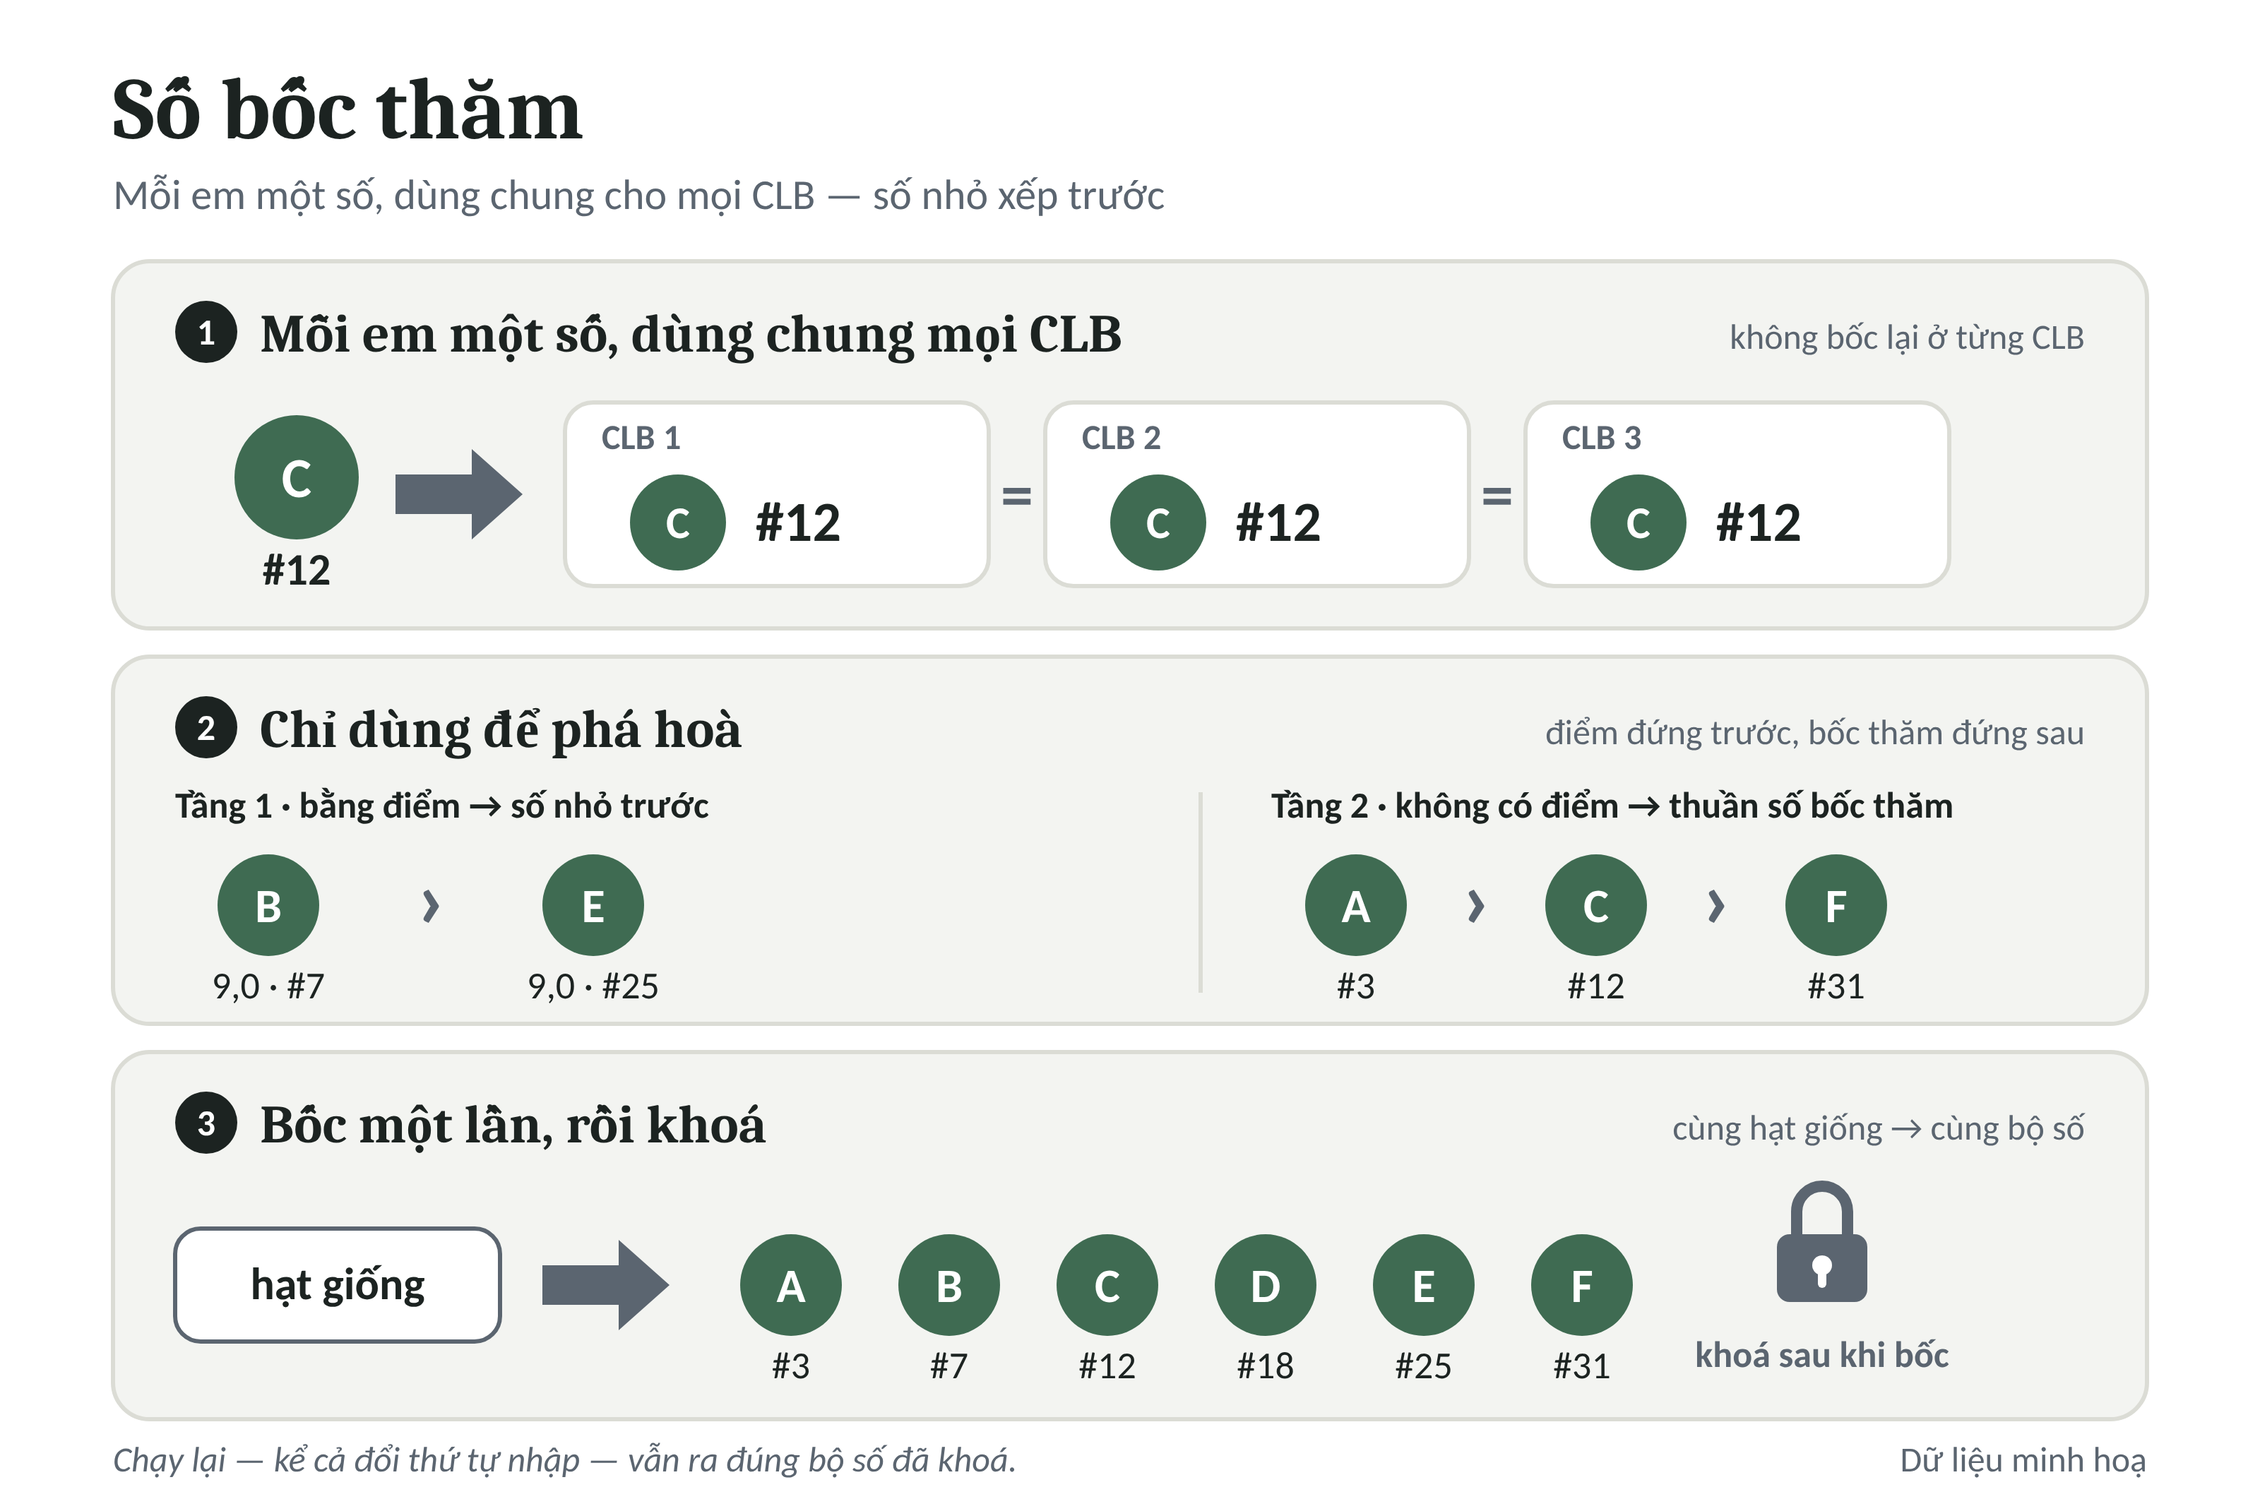
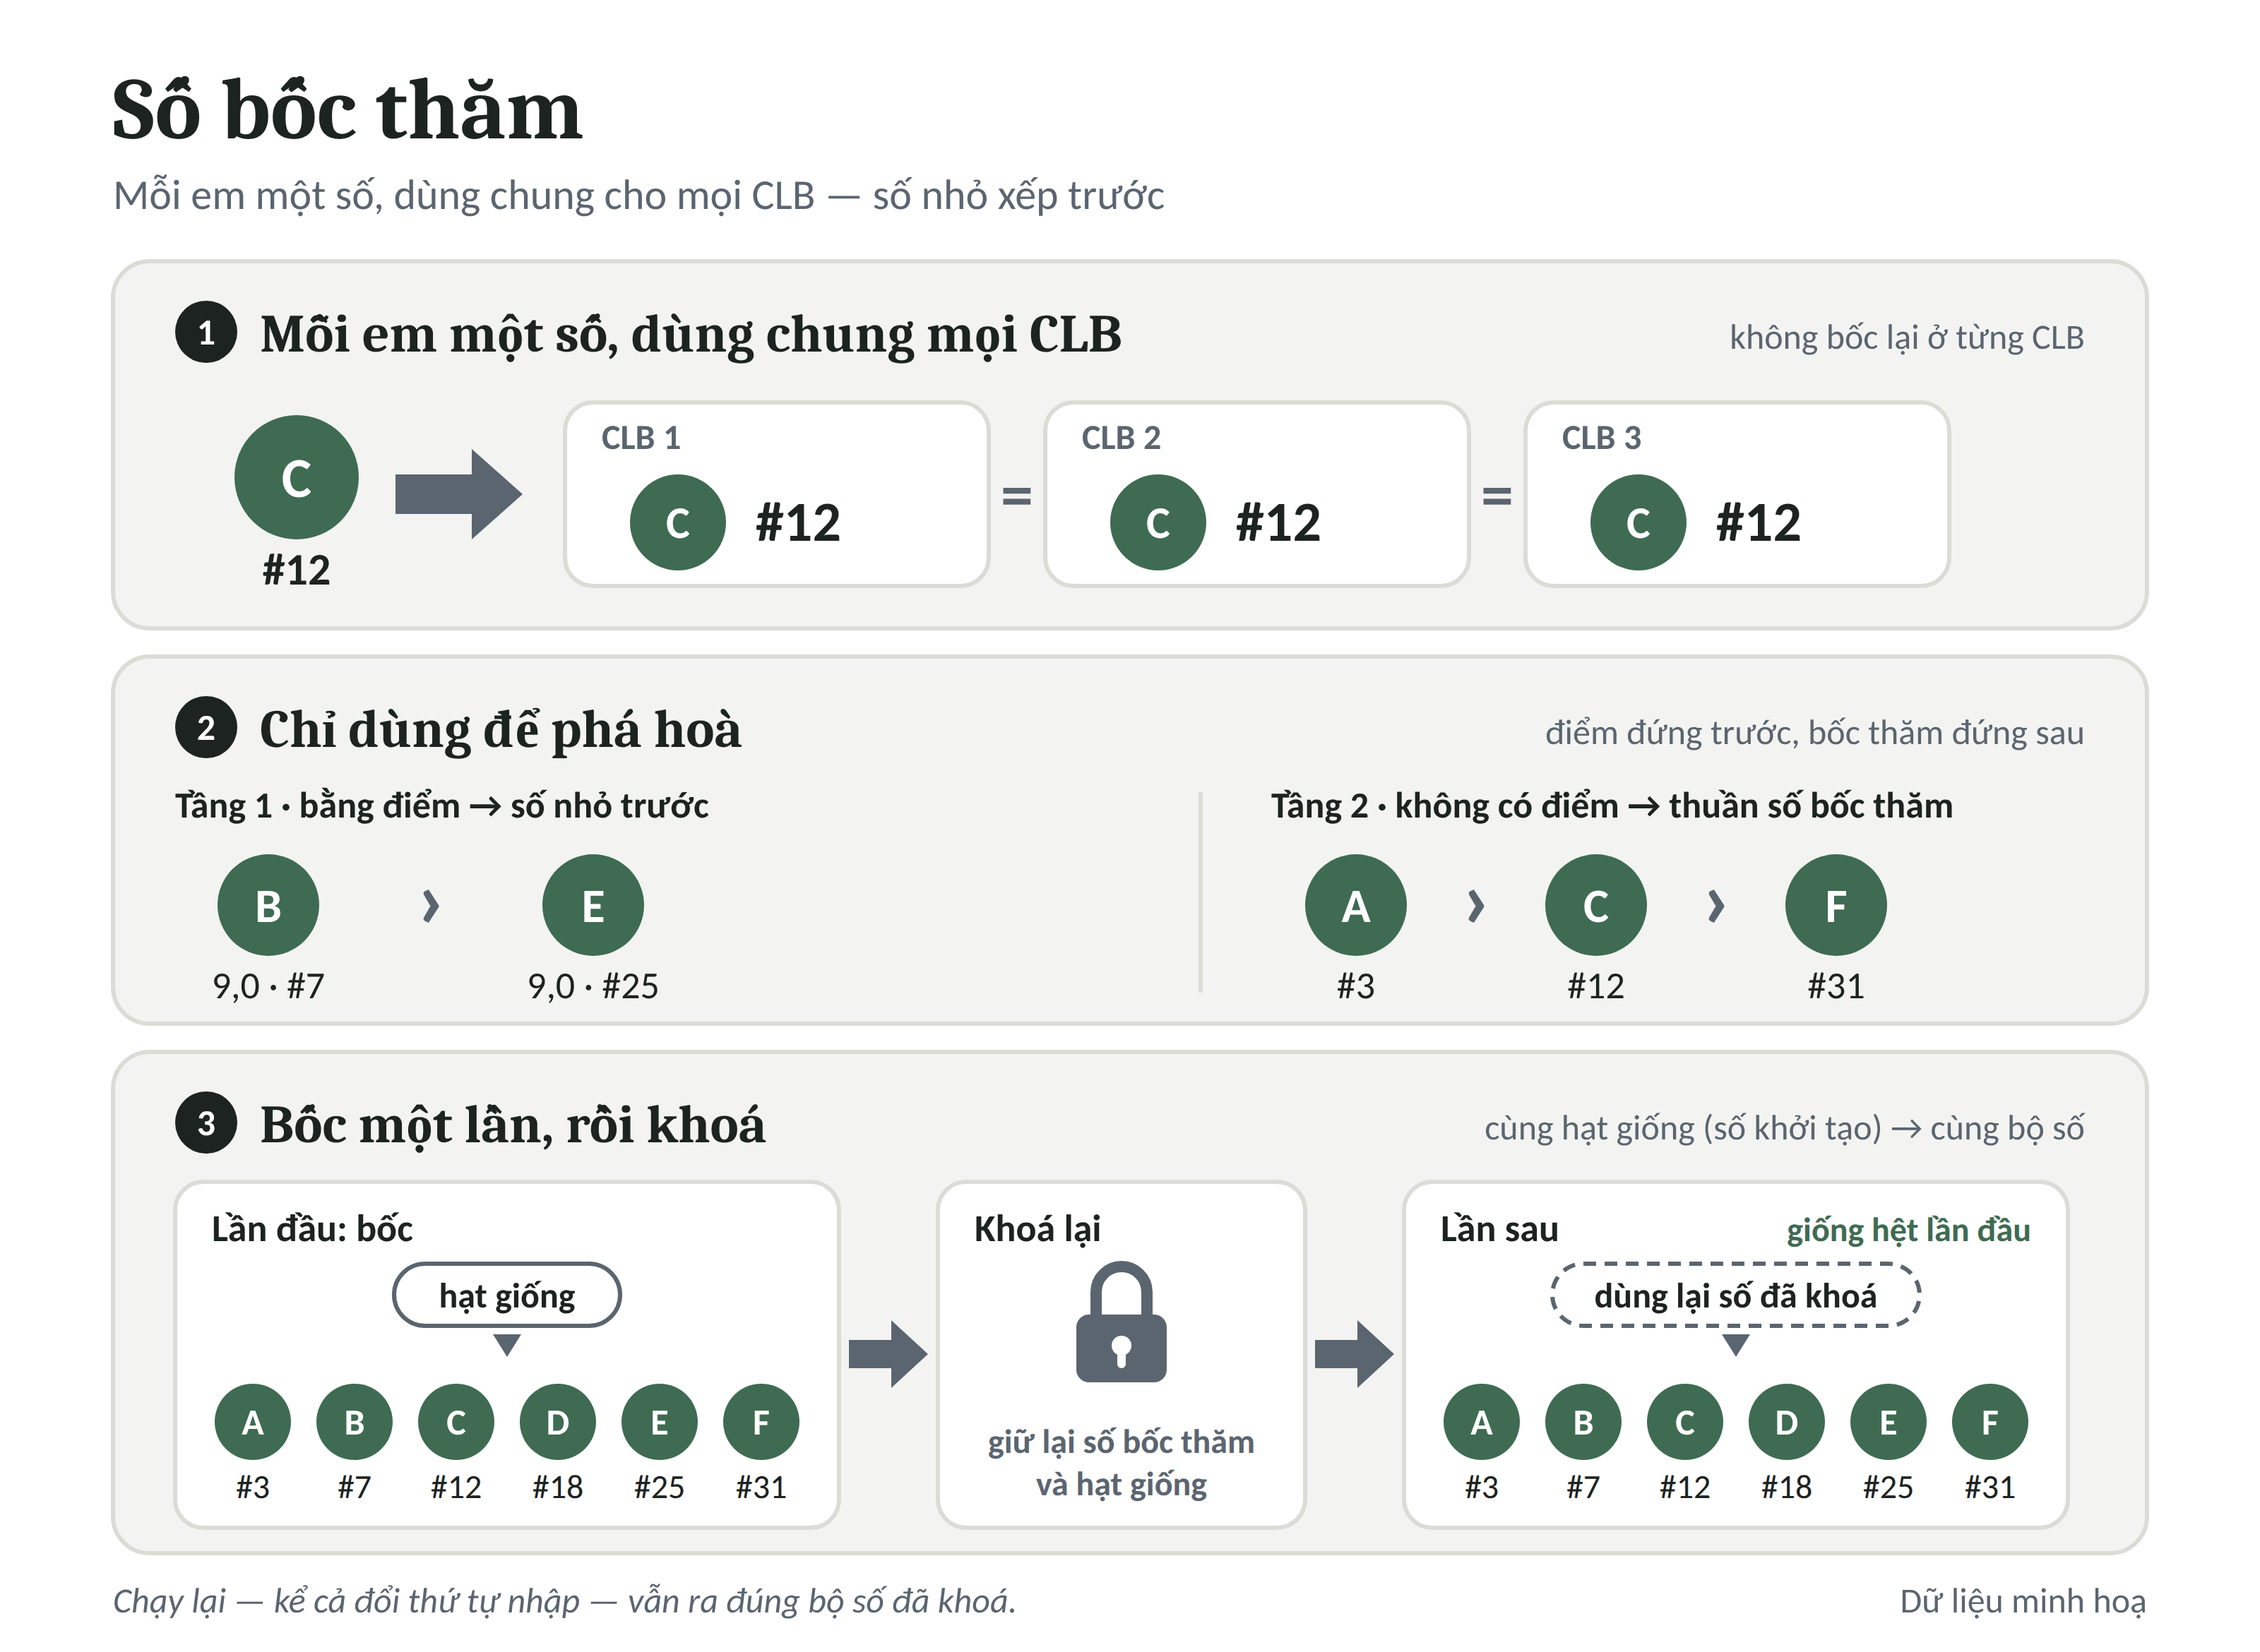
Make panel 3 of the lottery-number image explicit: draw, lock, reuse
Panel 3 is now three connected steps (first run: seed -> numbers; lock: numbers
and seed kept; later runs: reuse the locked numbers, identical) instead of one
row, and 'hạt giống' is glossed as 'số khởi tạo'. Panels 1 and 2 are unchanged.

Claude-Session: https://claude.ai/code/session_01L2hpTTGpZu8zzQgNd4hRXM

diff --git a/slide/tao_anh_co_che_boc_tham.py b/slide/tao_anh_co_che_boc_tham.py
@@ -17,13 +17,14 @@ from pathlib import Path
 from tao_anh_suat_uu_tien import (BODY, GREEN, HAIR, HEAD, INK, PAPER, SLATE, chip, chromium, t)
 
 HERE = Path(__file__).resolve().parent
-W, H = 1600, 1070
+W, H = 1600, 1170
 PX, PW, PH = 80, 1440, 260
+PH3 = 355          # khung 3 cao hơn: ba bước nằm cạnh nhau
 
 
-def panel(py, so, title, sub, content):
+def panel(py, so, title, sub, content, ph=PH):
     return "\n".join([
-        f'<rect x="{PX}" y="{py}" width="{PW}" height="{PH}" rx="26" fill="{PAPER}" stroke="{HAIR}" stroke-width="3"/>',
+        f'<rect x="{PX}" y="{py}" width="{PW}" height="{ph}" rx="26" fill="{PAPER}" stroke="{HAIR}" stroke-width="3"/>',
         f'<circle cx="{PX + 66}" cy="{py + 50}" r="22" fill="{INK}"/>',
         t(PX + 66, py + 59, so, 26, "#FFFFFF", 700, "middle"),
         t(PX + 104, py + 64, title, 38, INK, 700, family=HEAD),
@@ -75,15 +76,55 @@ def y2(py):
     return "\n".join(out)
 
 
-# ---- 3. bốc một lần rồi khoá ---------------------------------------------------
+# ---- 3. bốc một lần rồi khoá: ba bước liền nhau --------------------------------
+NUMS = list(zip("ABCDEF", ("#3", "#7", "#12", "#18", "#25", "#31")))
+
+
+def small_arrow(ax, cy):
+    return (f'<path d="M{ax},{cy - 10} H{ax + 30} V{cy - 24} L{ax + 56},{cy} L{ax + 30},{cy + 24} V{cy + 10} H{ax} Z" '
+            f'fill="{SLATE}"/>')
+
+
+def chips_row(x0, w, cy):
+    out = []
+    for i, (who, val) in enumerate(NUMS):
+        cx = x0 + 55 + i * (w - 110) / 5
+        out += [chip(cx, cy, 27, who, GREEN, size=26), t(cx, cy + 54, val, 24, INK, anchor="middle")]
+    return "".join(out)
+
+
 def y3(py):
-    cy = py + 165
-    out = [f'<rect x="124" y="{cy - 40}" width="230" height="80" rx="18" fill="#FFFFFF" stroke="{SLATE}" '
-           f'stroke-width="3"/>', t(239, cy + 10, "hạt giống", 32, INK, 700, "middle"), big_arrow(384, cy)]
-    for i, (who, val) in enumerate(zip("ABCDEF", ("#3", "#7", "#12", "#18", "#25", "#31"))):
-        cx = 560 + i * 112
-        out += [chip(cx, cy, 36, who, GREEN, size=34), t(cx, cy + 66, val, 27, INK, anchor="middle")]
-    out += [padlock(1290, cy - 30), t(1290, cy + 58, "khoá sau khi bốc", 26, SLATE, 700, "middle")]
+    ct, ch = py + 92, 245                              # đỉnh và chiều cao ba thẻ
+    cards = ((124, 470), (664, 260), (994, 470))
+    out = []
+    for x, w in cards:
+        out.append(f'<rect x="{x}" y="{ct}" width="{w}" height="{ch}" rx="20" fill="#FFFFFF" stroke="{HAIR}" stroke-width="3"/>')
+    for (x0, w), (x1, _) in zip(cards, cards[1:]):
+        out.append(small_arrow(x0 + w + 7, ct + 122))
+    # lần đầu: hạt giống -> bộ số
+    x, w = cards[0]
+    mid = x + w / 2
+    out += [t(x + 26, ct + 42, "Lần đầu: bốc", 27, INK, 700),
+            f'<rect x="{mid - 80}" y="{ct + 58}" width="160" height="44" rx="22" fill="#FFFFFF" stroke="{SLATE}" stroke-width="3"/>',
+            t(mid, ct + 89, "hạt giống", 25, INK, 700, "middle"),
+            f'<path d="M{mid - 10},{ct + 108} H{mid + 10} L{mid},{ct + 124} Z" fill="{SLATE}"/>',
+            chips_row(x, w, ct + 170)]
+    # khoá
+    x, w = cards[1]
+    mid = x + w / 2
+    out += [t(x + 26, ct + 42, "Khoá lại", 27, INK, 700), padlock(mid, ct + 100),
+            t(mid, ct + 192, "giữ lại số bốc thăm", 24, SLATE, 700, "middle"),
+            t(mid, ct + 222, "và hạt giống", 24, SLATE, 700, "middle")]
+    # lần sau: dùng lại đúng bộ số đã khoá
+    x, w = cards[2]
+    mid = x + w / 2
+    out += [t(x + 26, ct + 42, "Lần sau", 27, INK, 700),
+            t(x + w - 26, ct + 42, "giống hệt lần đầu", 24, GREEN, 700, "end"),
+            f'<rect x="{mid - 130}" y="{ct + 58}" width="260" height="44" rx="22" fill="#FFFFFF" stroke="{SLATE}" '
+            f'stroke-width="3" stroke-dasharray="9 6"/>',
+            t(mid, ct + 89, "dùng lại số đã khoá", 25, INK, 700, "middle"),
+            f'<path d="M{mid - 10},{ct + 108} H{mid + 10} L{mid},{ct + 124} Z" fill="{SLATE}"/>',
+            chips_row(x, w, ct + 170)]
     return "\n".join(out)
 
 
@@ -92,9 +133,9 @@ def build():
             t(80, 148, "Mỗi em một số, dùng chung cho mọi CLB — số nhỏ xếp trước", 30, SLATE),
             panel(185, "1", "Mỗi em một số, dùng chung mọi CLB", "không bốc lại ở từng CLB", y1(185)),
             panel(465, "2", "Chỉ dùng để phá hoà", "điểm đứng trước, bốc thăm đứng sau", y2(465)),
-            panel(745, "3", "Bốc một lần, rồi khoá", "cùng hạt giống → cùng bộ số", y3(745)),
-            t(80, 1042, "Chạy lại — kể cả đổi thứ tự nhập — vẫn ra đúng bộ số đã khoá.", 25, SLATE, italic=True),
-            t(W - 80, 1042, "Dữ liệu minh hoạ", 25, SLATE, anchor="end")]
+            panel(745, "3", "Bốc một lần, rồi khoá", "cùng hạt giống (số khởi tạo) → cùng bộ số", y3(745), PH3),
+            t(80, 1142, "Chạy lại — kể cả đổi thứ tự nhập — vẫn ra đúng bộ số đã khoá.", 25, SLATE, italic=True),
+            t(W - 80, 1142, "Dữ liệu minh hoạ", 25, SLATE, anchor="end")]
     return (f'<svg xmlns="http://www.w3.org/2000/svg" viewBox="0 0 {W} {H}" width="{W}" height="{H}" font-family="{BODY}">\n'
             f'<rect width="{W}" height="{H}" fill="#FFFFFF"/>\n' + "\n".join(body) + "\n</svg>")
 
